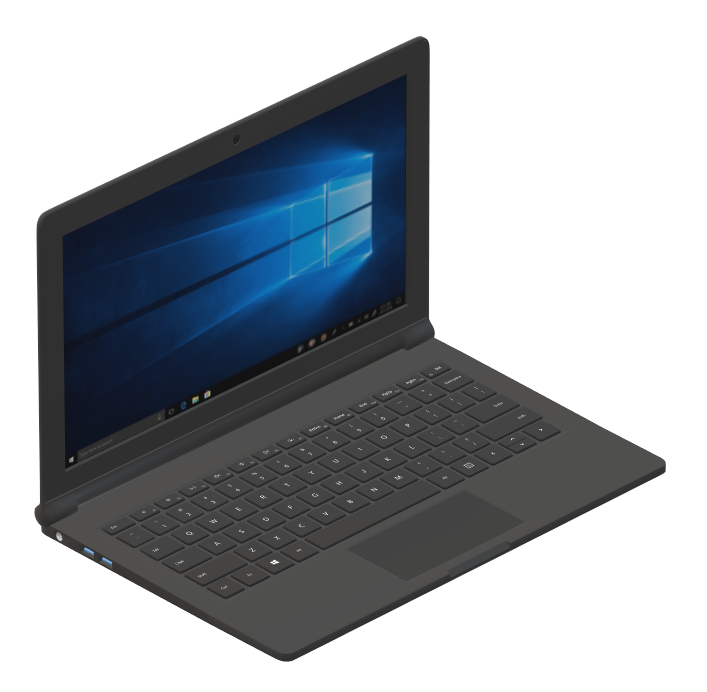
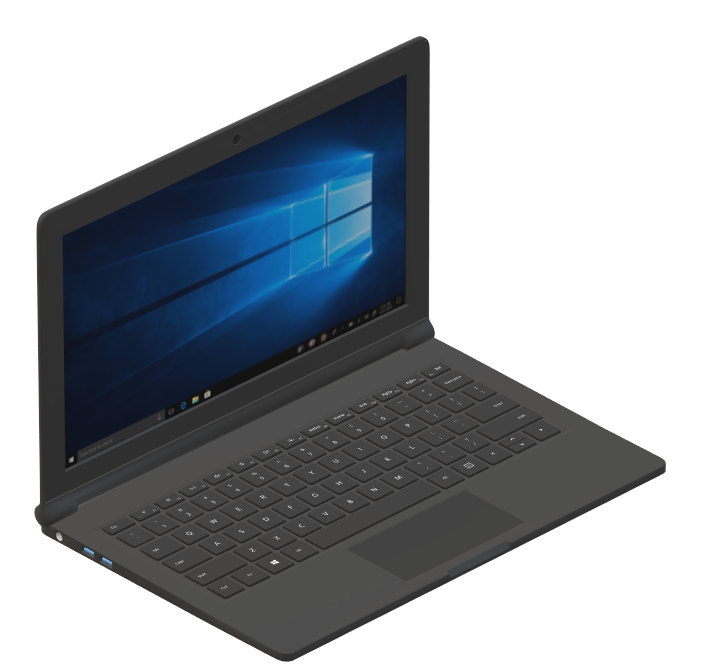
Add files via upload

diff --git a/Unit 1, Outcome 3.html b/Unit 1, Outcome 3.html
@@ -15,8 +15,24 @@
 <body>
     <div>
         <p>
-    <h1> Unit 1, Outcome 3 </h1>
+        <h1> Unit 1, Outcome 3 </h1>
+        <br>
+        <h3> 3.1 Review the benefits and drawbacks of IT tools and systems used in terms of productivity and efciency – could you have been more efcient when making your website? How? Could you have done it in teams?  </h3>
+        The tools and systems I use allowed me to be efficient, Visual Code helped me with the CSS syntax, GitHub gave me an area for version control and to back up my data. My hardware include an i5, 8GB, 256GB SSD Windows tablet, 24" monitor with a mouse and keyboard with height adjustability making working at length easier and minimal waiting when using applications. One drawback I have was my chair, as I was working from home I was working from the kitchen table rather than desk and comfortable chair, however I was sat 1 meter away from the coffee machine which increased productivity. <br>
+        <br>
+         Working as a team would have improved the content and design of the website, although due to multiple preferences being involved it would have radically changed the design and change from my intended outcome as an individual. As a team, tasks could have been assigned to different members allowing more time to be spent on the content and design to improve it further as the strengths and weaknesses of team members could be utilised.  <br>
+        <br>
+        <h3> 3.2 Describe ways to improve productivity and efciency  </h3>
+        To improve my productivity and efficiency my first step was to find a workspace in the house and my partner is working from home also, we agreed for me to take the kitchen to enable me to have a dual monitor set up. Having dual monitors allowed me to multitask and when I made changes to the code I could see the changes to the website side by side live. I took regular breaks to clear my head and make a coffee which increased my focus and allowed me to think my project through without making any changes or influences from my research to focus on what I wanted to achieve. Planning my project and setting myself a goal what I wanted to achieve per day helped my motivation and keep me on track to publish the website the standard I set myself.<br>
+        <h3> 3.3 Develop solutions to improve own productivity using IT in digital projects – what
+            would you do diferently next time? Team work? Use of Slack? </h3>
+        To improve productivity I would plan my project different, pick the project methodologies carefully and assign tasks more efficiently and improve the brief so the team produces uniform content. To improve my personal productivity I would have improved my workspace, bigger screens, height adjustability options with a suitable desk and chair which would allow me to work longer and efficiently. I would have used Trello more and utilised it capabilities to improve teamwork by breaking down the brief  further and going more granular on the development stages to improve efficiency and meet the requirements set out in the brief.<br>
+        <br>
+        <h3> 3.4 Describe how you would go about testing digital solutions. </h3>
+        To test a solutions I would run it myself testing all the functions to ensure the work as intended, if working as a team having each member doing the same to improve efficiently as overlooked mistakes will be reduced. As a team sharing thoughts of the project and the experience can help identify change that can be made to improve the solutions further and ensure it matches the requirements set out in the brief. Having other people who have digital solution knowledge can give further insight as they may have had experiences with a similar solution to compare or they may have gone about things differently. Having user a user who has no digital solutions can give further insight on the user experience such as presentation and ease of use.
     <br>
+        <img src="C:\Users\craig\Python_Learning\Craig's Bio Website\Bio Pictures\chair.png" alt="Chair" width="240" height="380">
+    </p>
     Craig's Bio
 </p>
     </div>

diff --git a/Unit 1, Outcome 2.html b/Unit 1, Outcome 2.html
@@ -39,13 +39,12 @@
     </p>
     <h3> 2.5 Review outcomes to make sure they match requirements and are fit for purpose </h3>
     My website design and content matches the requirements, the content I was asked to include has been presented on a web page in a clean, professional design and navigation around the website is simple and accessible. The requirements where considered throughout the project to ensure the outcomes.<br>
-    <br>
         <img src="C:\Users\craig\Python_Learning\Craig's Bio Website\Bio Pictures\laptop.png"
-         alt="Laptop" width="330" height="330">
+         alt="Laptop" width="390" height="360">
+         <br>
          <br>
         Craig's Bio
 </p>
-<div>
+</div>
 </body>
-
 </html>
